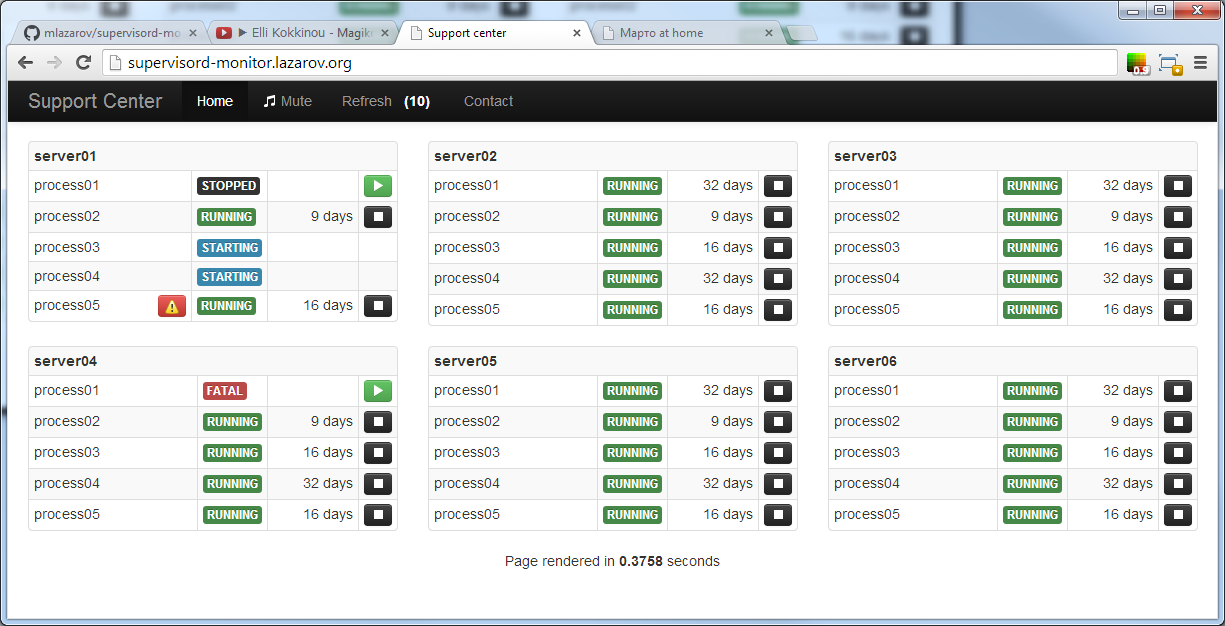
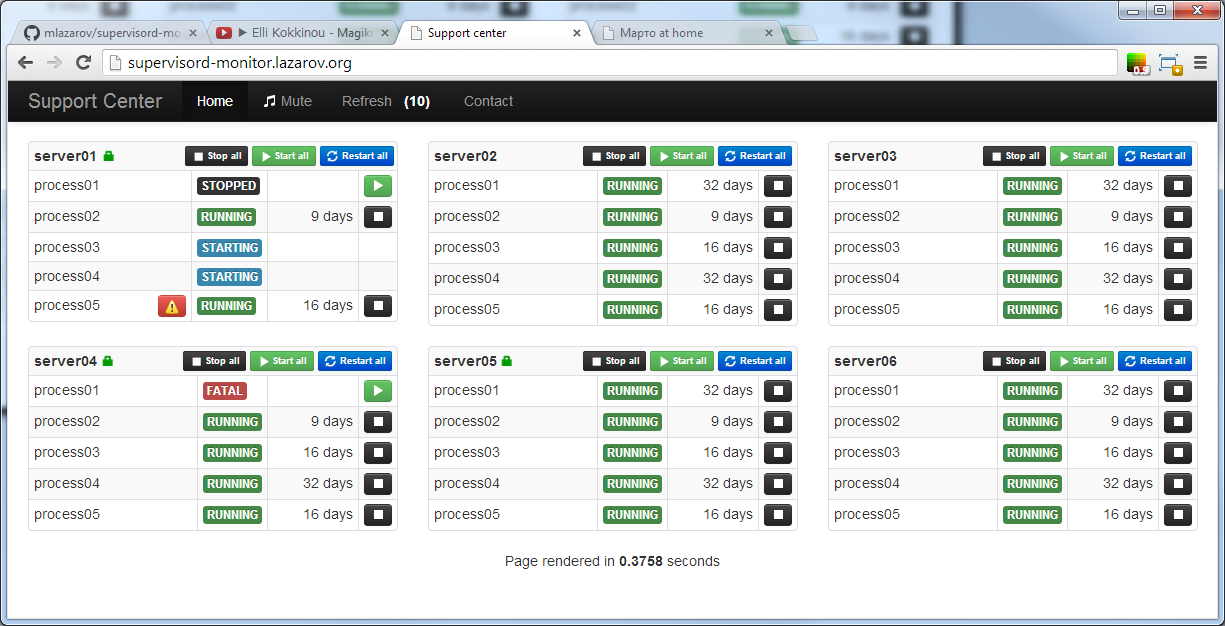
Adding Start/Stop/Restart ALL and updating screenshot

diff --git a/application/views/welcome.php b/application/views/welcome.php
@@ -75,8 +75,13 @@ $muted = (isset($_COOKIE['mute'])?$_COOKIE['mute']:0);
 				<div class="span4">
 				<table class="table table-bordered table-condensed table-striped">
 					<tr><th colspan="4">
-						<a href="<?php echo $ui_url; ?>"><?php echo $name; ?></a> <i><?php echo $parsed_url['host']; ?></i>
-						<?php if(isset($cfg[$name]['username'])){echo '<i class="icon-lock icon-green pull-right" style="color:blue" title="Authenticated server connection"></i>';}?>
+						<a href="<?php echo $ui_url; ?>"><?php echo $name; ?></a> <i><?php echo $parsed_url['host']; ?></i>	
+						<?php if(isset($cfg[$name]['username'])){echo '<i class="icon-lock icon-green" style="color:blue" title="Authenticated server connection"></i>';}?>
+						<span class="server-btns">
+							<a href="/control/stopall/<?php echo $name; ?>" class="btn btn-mini btn-inverse" type="button"><i class="icon-stop icon-white"></i> Stop all</a>
+							<a href="/control/startall/<?php echo $name; ?>" class="btn btn-mini btn-success" type="button"><i class="icon-play icon-white"></i> Start all</a>
+							<a href="/control/restartall/<?php echo $name; ?>" class="btn btn-mini btn-primary" type="button"><i class="icon icon-refresh icon-white"></i> Restart all</a>
+						</span>
 					</th></tr>
 					<?php
 					$CI = &get_instance();

diff --git a/application/controllers/control.php b/application/controllers/control.php
@@ -4,8 +4,22 @@ class Control extends MY_Controller{
 		$this->_request($server,'startProcess',array($worker,1));
 		Redirect('/');
 	}
+	function Startall($server){
+		$this->_request($server,'startAllProcesses',array(1));
+		Redirect('/');
+	}
 	function Stop($server,$worker){
 		$this->_request($server,'stopProcess',array($worker,1));
+		Redirect('/');
+	}
+	function Stopall($server){
+		$this->_request($server,'stopAllProcesses',array(1));
+		Redirect('/');
+	}
+	function Restartall($server){
+		$this->_request($server,'stopAllProcesses',array(1));
+		sleep(2);
+		$this->_request($server,'startAllProcesses',array(1));
 		Redirect('/');
 	}
 	function Clear($server,$worker){
